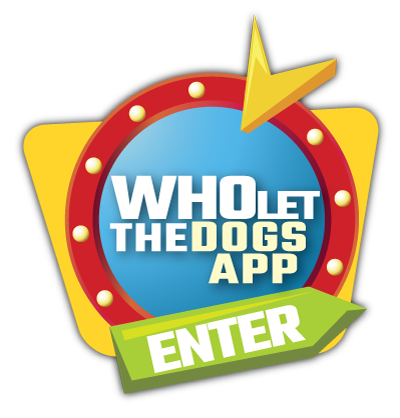
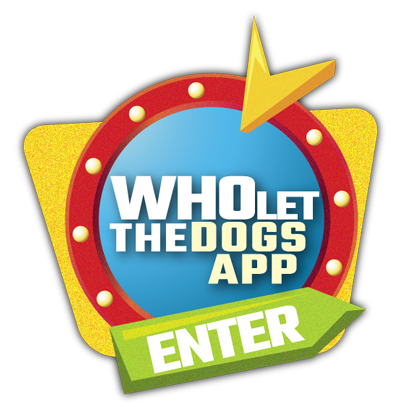
20210619 CSS

diff --git a/client/src/components/DogCards/DogCards.js b/client/src/components/DogCards/DogCards.js
@@ -3,7 +3,7 @@ import Pagination from '../Pagination/Pagination'
 import { connect } from 'react-redux';
 import { getDogs, paginate, stopLoading, setTempDog, clearDogDetail } from '../../actions/index';
 import { Link } from 'react-router-dom';
-
+import './DogCards.css';
 
 function DogCards(props) {
     const {dogs, loading, dogsPerPage, currentPage, stopLoading, selectedTempDogs, zA, azWeight, clearDogDetail} = props;
@@ -91,24 +91,26 @@ function DogCards(props) {
 
 
     return (
-        <div>
-            {currentDogs.length > 0  ? (<div>
+        <div className="dogCardsContainer">
+            {currentDogs.length > 0  ? (<div className="dogCards">
             {currentDogs.map((dog) => (
-              <div key={dog.id}>
-                  {/* <img src={dog.image} alt={dog.name} /> */}
-                  <Link to={`/dogs/${dog.id}`}>
-                  <h2>{dog.name}</h2>
-                  </Link>
-                      <div>
-                          <span>{dog.temperament} </span>
-                          <span>height:{dog.height} </span>
-                          <span>weight: {dog.weight} </span>
-                          <span>life_span: {dog.life_span} </span>
-                      </div>
+                <div className="dogCard" key={dog.id}>
+                <Link to={`/dogs/${dog.id}`}>
+                <div className="imgContainer"><img className="imgCard" src={dog.image} alt={dog.name} /></div>
+                </Link>
+                <div className="nameTemp">
+                    <Link className="dogLink" to={`/dogs/${dog.id}`}>
+                        <h2 className="dogName">{dog.name}</h2>
+                    </Link>
+                    <p className="tempInfo"><strong>T:</strong> {dog.temperament} </p>
+                    {/* <span>height:{dog.height} </span>
+                    <span>weight: {dog.weight} </span>
+                    <span>life_span: {dog.life_span} </span> */}
+                </div>
               </div>
             ))}
             </div>) : <h3>The network is not working and we couldn't catch any dog, please try later</h3>}
-            {selectedTempDogs ? (<Pagination totalDogs={selectedTempDogs.length} />): <Pagination totalDogs={dogs.length} />} 
+            <div className="pagination" >{selectedTempDogs ? (<Pagination totalDogs={selectedTempDogs.length} />): <Pagination totalDogs={dogs.length} />}</div> 
         </div>
     )
 

diff --git a/client/src/components/DogCards/DogCards.css b/client/src/components/DogCards/DogCards.css
@@ -1,0 +1,91 @@
+/* https://medium.com/@kimcodeashian/simple-css-solutions-how-to-resize-images-with-different-dimensions-without-cropping-eb744e93246d */
+
+.dogCardsContainer {
+    margin-top: 32px;
+    padding: 32px 16px;
+    background-color: rgb(240, 240, 240);
+    
+}
+
+.dogCards {
+    display: grid;
+    align-items: top;
+    grid-template-columns: 1fr 1fr 1fr;
+    column-gap: 20px;
+    row-gap: 30px;
+    height: 100%;
+    max-width: 1080px;
+    margin: 0 auto;
+    
+  }
+
+.dogCard {
+    height: 100%;
+    padding: 12px 12px 2px 12px;
+    border: 1px solid black;
+    background-color: white;
+}
+
+.imgContainer {
+    position: relative;
+    max-width: 400px;     
+    height: 200px;
+    overflow: hidden;
+    border: 2px solid black;
+    background-color: black;
+  }
+
+.imgCard {
+    position: absolute;
+    width: 100%;
+    height: auto;
+    top: 50%;     
+    left: 50%;
+    transform: translate( -50%, -50%);
+    transition: 0.2s;
+}
+
+.imgCard:hover {
+    transition: 0.2s;
+    width: 105%;
+    height: auto;
+}
+
+.nameTemp {
+    display: flex;
+    flex-direction: column;
+}
+
+.dogLink {
+    text-decoration: none;
+}
+
+.dogName {
+    border-top: 2px solid black;
+    border-bottom: 2px solid black;
+    color: black;
+}
+
+.dogName:hover {
+    border-top: 2px solid black;
+    border-bottom: 2px solid black;
+    color: black;
+    background-color: rgb(255, 230, 219);
+}
+
+.dogName:active {
+    border-top: 2px solid black;
+    border-bottom: 2px solid black;
+    color: white;
+    background-color: rgb(220, 48, 48);
+}
+
+.tempInfo {
+    margin: 0;
+    text-align: left;
+}
+
+.pagination {
+    /* max-width: 1080px; */
+    margin-top: 40px;
+}

diff --git a/client/src/components/Landing/Landing.js b/client/src/components/Landing/Landing.js
@@ -3,8 +3,9 @@ import { Link } from 'react-router-dom';
 import { connect } from 'react-redux';
 import { getDogs } from '../../actions/index';
 import dogvideo from "../video/dogvideo.mp4";
-import logo from "../images/dogsapp-01.png";
-import logo2 from "../images/dogsapp-02.png";
+import logo from "../images/entersign.png";
+// import logo from "../images/dogsapp-01.png";
+// import logo2 from "../images/dogsapp-02.png";
 import './Landing.css';
 
 const Landing = ({getDogs}) => {
@@ -31,9 +32,9 @@ const Landing = ({getDogs}) => {
             <img  src={logo} className="logo"
                 style={{position: "absolute", left: "50%", top: "50%", zIndex: "1", transform: "translate(-50%, -50%)"}}  
             />
-            <img  src={logo2} className="logo2"
+            {/* <img  src={logo2} className="logo2"
                 style={{position: "absolute", left: "50%", top: "50%", zIndex: "1", transform: "translate(-50%, -50%)"}}  
-            />
+            /> */}
             {/* <button style={{position: "absolute", margin: "0 auto", top: "50%", fontSize: "2rem"}}> Enter
             </button> */}
         </Link>

diff --git a/client/src/components/DogContainer/DogContainer.js b/client/src/components/DogContainer/DogContainer.js
@@ -10,6 +10,7 @@ import { getDogs } from '../../actions/index';
 const DogContainer = () => {
     const [value, setValue] = useState(false);
     const [azWeight, setWeight] = useState(false);
+    const [showTemp, setShowTemp] = useState(false);
     
 
     function handleChangeAZW() {
@@ -24,8 +25,13 @@ const DogContainer = () => {
         setValue(!value)
       }
 
-
-
+    const onClick = () => {
+        if (showTemp === false){
+        setShowTemp(true)
+    }   else {
+        setShowTemp(false)
+    }
+    };
 
 
     return (
@@ -50,10 +56,10 @@ const DogContainer = () => {
                     <span> ↓</span>
                 </div>
                 <div className="flexContainer">
-                <h2>Find by temperament</h2>
+                <button onClick={onClick}>{showTemp ? "Hide temperaments" : "Show temperaments"}</button>
                 </div>
             </div>
-            <Temperaments />
+            { showTemp ? <Temperaments/>  : null }
             <DogCards zA = {value} azWeight = {azWeight} />
         </div>
     )

diff --git a/client/src/components/Nav/Nav.js b/client/src/components/Nav/Nav.js
@@ -10,9 +10,9 @@ const Nav = () => {
                 <h1>Who let the dogs app</h1>
                 <img className={"rocketDog"} src={rocketDog} alt="rocket dog"/>
             </Link>
-            <NavLink className={"navLinks"} exact={true} activeClassName='is-active' to='/dogs'>Henry Dogs</NavLink>
+            <NavLink className={"navLinks"} exact={true} activeClassName='is-active' to='/dogs'>Escaped Dogs</NavLink>
             {/* <Link to='/temperaments'>Find Dog by temperament</Link> */}
-            <NavLink className={"navLinks"} exact={true} activeClassName='is-active' to='/add'>Add Dog</NavLink>
+            <NavLink className={"navLinks"} exact={true} activeClassName='is-active' to='/add'>Add a wanted dog</NavLink>
         </nav>
     )
 }

diff --git a/client/src/components/Dog/Dog.js b/client/src/components/Dog/Dog.js
@@ -22,13 +22,13 @@ function Dog(props) {
             <li>{props.dogDetail.temperament}</li>
             <li>height:{props.dogDetail.height ? (
                 props.dogDetail.height) : (
-            <span>Cargando...</span>
+            <span>Loading...</span>
             )} </li>
             <li>weight: {props.dogDetail.weight} </li>
             <li>life_span: {props.dogDetail.life_span} </li>
             </ul>
             ) : (
-            <h4>Cargando...</h4>
+            <h4>Loading...</h4>
             )}
         </div>
     )

diff --git a/client/src/index.css b/client/src/index.css
@@ -29,14 +29,15 @@ font-family: 'Teko', sans-serif; */
 .flexContainer {
   display: flex;
   justify-content: space-around;
-  align-items: flex-end;
+  align-items: center;
   /* border: 1px solid black; */
   text-decoration: none;
-  max-width: 960px;
+  /* max-width: 960px; */
   flex-wrap: wrap;
 }
 
-/* * {
+/* 
+* {
   border: 1px solid grey;
 } */
 

diff --git a/client/src/components/Pagination/Pagination.js b/client/src/components/Pagination/Pagination.js
@@ -2,7 +2,7 @@
 import React, { useEffect} from 'react';
 import { connect } from 'react-redux';
 import { paginate } from '../../actions/index';
-
+import './Pagination.css';
 
 // totalDogs viene como prop del componente padre = dogs || query.name
 // dogsPerPage y paginate del store

diff --git a/client/src/components/Landing/Landing.css b/client/src/components/Landing/Landing.css
@@ -6,10 +6,15 @@
     top: "50%";
     z-index: "10";
     transform: "translate(-50%, -50%)";
+    filter: brightness(70%);
+    transition: 0.2s;
 }
 
 .logo:hover {
-    display: none;
+    /* display: none; */
+    filter: brightness(100%);
+    transition: 0.2s;
+
 }
 
 .logo2 {

diff --git a/client/src/components/Find/Find.js b/client/src/components/Find/Find.js
@@ -52,7 +52,7 @@ const Find = (props) => {
         {/* <button type="submit">Find</button> */}
         <input className={"inputbutton"}
             type="reset"
-            value="Reset"
+            value="Show all"
           />
       </form>
         </div>

diff --git a/client/src/components/Switch/Switch.css b/client/src/components/Switch/Switch.css
@@ -6,8 +6,8 @@
   
   .react-switch-label {
     display: flex;
-    align-items: center;
-    justify-content: space-between;
+    /* align-items: center; */
+    /* justify-content: space-between; */
     cursor: pointer;
     width: 50px;
     height: 20px;

diff --git a/client/src/components/Switch/Switchazw.js b/client/src/components/Switch/Switchazw.js
@@ -4,7 +4,7 @@ import './Switch.css';
 const Switchazw = ({ azWeight, handleToggleazw }) => {
   return (
     <>
-    <div>
+    <div className="flexContainer">
         
           <input
             checked={azWeight}
